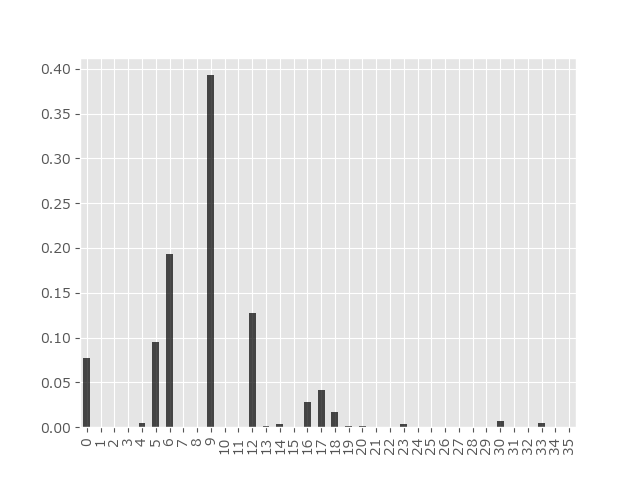
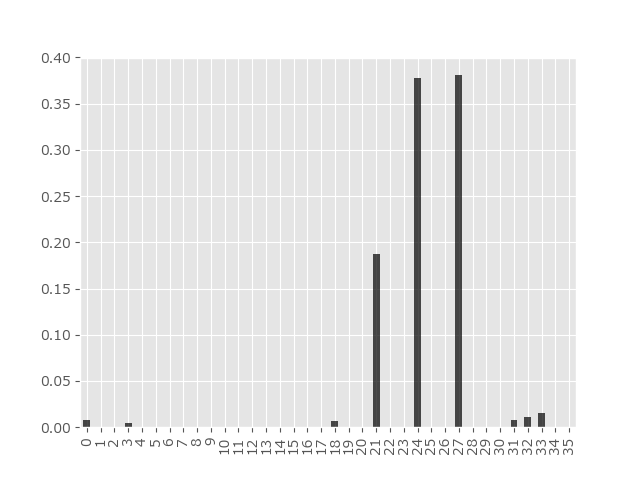
modify the log plot

diff --git a/src/Plot.py b/src/Plot.py
@@ -29,8 +29,8 @@ class Plot:
 
     def lineGraphSample(self, p_matrix):
         y = np.log(p_matrix)
-        df = pd.DataFrame(p_matrix[0:4, :])
-        df.plot(grid=True, linewidth = 0.4, logy=True)
+        df = pd.DataFrame(y)
+        df.plot(grid=True, linewidth = 0.4, legend=False)
         plt.savefig('./plots/samples/nodes_{}-observation_{}-no_sample_{}_p={}.png'.format(self.N, self.observation, self.no_sample, self.p))
 
     def scatterObservation(self, p_matrix, true_states):

diff --git a/src/sample.py b/src/sample.py
@@ -7,7 +7,7 @@ from Plot import *
 N = 12
 p = 0.05
 observation = 6
-no_sample = 2000
+no_sample = 4000
 #some code to test it
 graph = Graph()
 G3 = graph.genEvenGraph(N, 0)
@@ -36,7 +36,7 @@ C = hmm.genC(sigmas)
 #print(sum(C[0,:]))
 
 
-[sigmas, sigma_prob]= sampleSigma(hmm, 2000, 100)
+[sigmas, sigma_prob]= sampleSigma(hmm, no_sample, 100)
 p_vec = computeTarget(hmm, sigmas)
 # print(p_vec)
 

diff --git a/src/hmm.py b/src/hmm.py
@@ -191,7 +191,7 @@ def computeTarget(hmm, sigmas):
     return prob_joint
 
  # Check convergence for different amount of samples
-def convergenceCheck(hmm, sigmas, step_size=100):
+def convergenceCheck(hmm, sigmas, step_size=10):
     N, T = sigmas.shape
     prob_joint = np.zeros(3*N)
     prob_joint_steps = np.zeros((T/step_size, 3*N))
